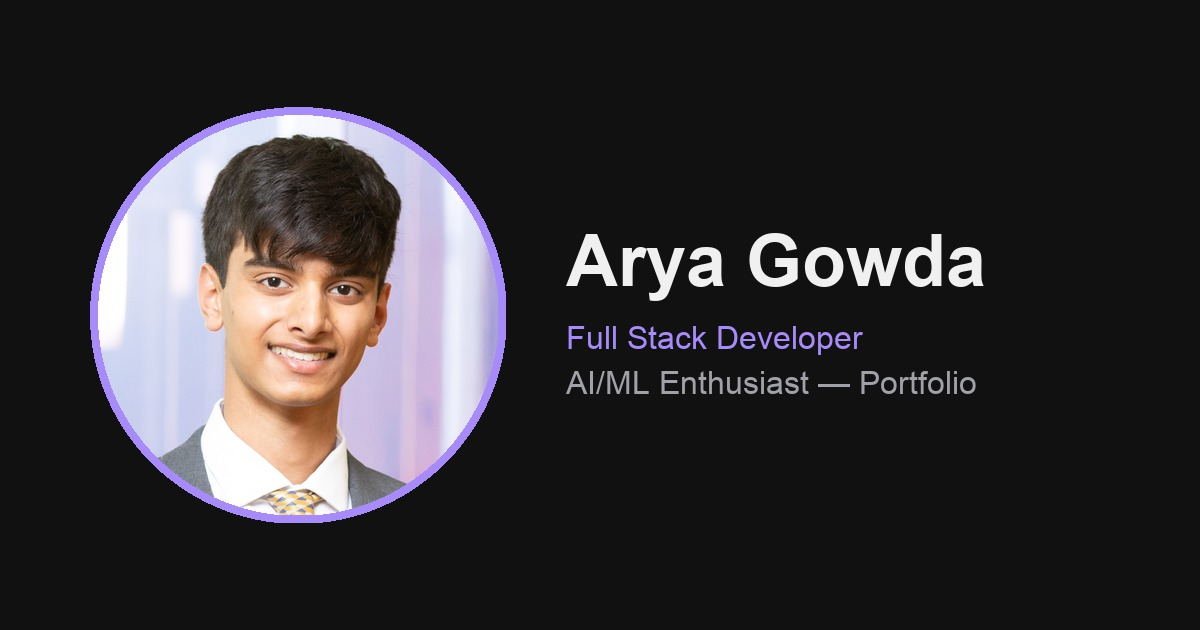
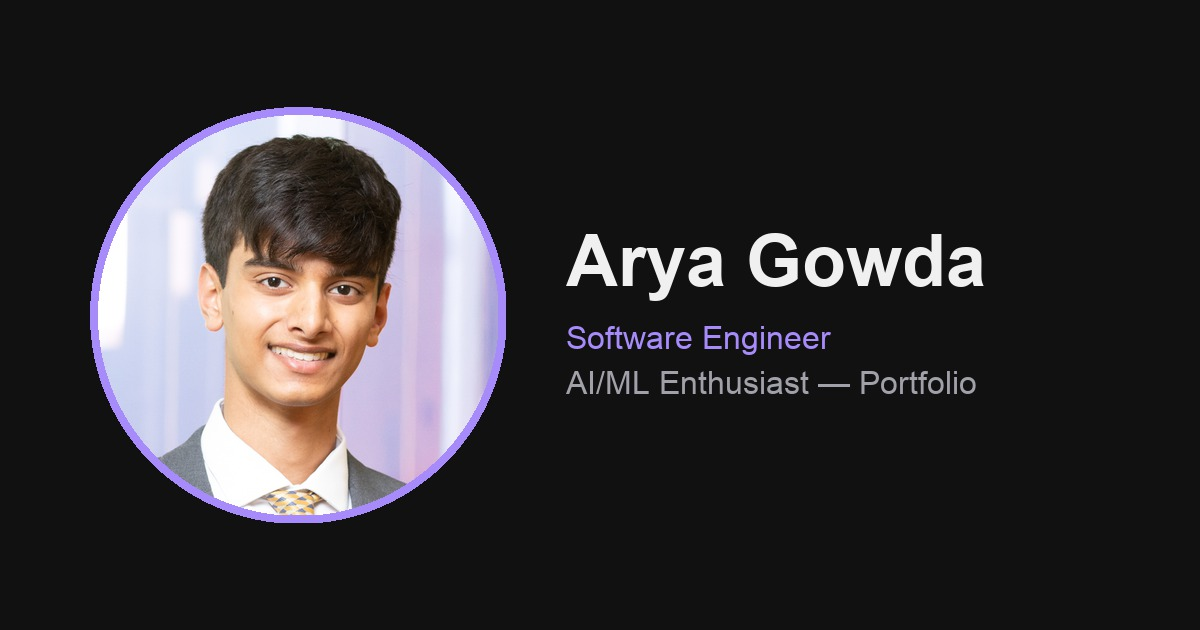
Update About Me and Experience for graduation + new SWE role at Ally
- About Me now reflects graduating from University of Michigan and
  working as a Software Engineer at Ally instead of being a student
- Add Ally Software Engineer role (Jul 2026-Present) to experience timeline
- Update Sabana entry with final dates (Jun-Aug 2025), full company
  name "Sabana (Techstars '24)", and accomplishment bullets
- Update job title consistently in SEO meta tags, JSON-LD, and the
  og-image social preview banner

Changed region(s): [[0.4625, 0.5127, 0.7092, 0.573]]

diff --git a/index.html b/index.html
@@ -16,12 +16,12 @@
         if (theme === 'dark') document.documentElement.classList.add('dark');
       })();
     </script>
-    <meta name="description" content="Arya Gowda's portfolio — full stack developer and AI/ML enthusiast. Explore projects, experience, and photography." />
+    <meta name="description" content="Arya Gowda's portfolio — Software Engineer and AI/ML enthusiast. Explore projects, experience, and photography." />
     <link rel="canonical" href="https://arya-gowda.vercel.app/" />
 
     <meta property="og:type" content="website" />
     <meta property="og:title" content="Arya Gowda | Portfolio" />
-    <meta property="og:description" content="Full stack developer and AI/ML enthusiast. Explore projects, experience, and photography." />
+    <meta property="og:description" content="Software Engineer and AI/ML enthusiast. Explore projects, experience, and photography." />
     <meta property="og:url" content="https://arya-gowda.vercel.app/" />
     <meta property="og:image" content="https://arya-gowda.vercel.app/og-image.jpg" />
     <meta property="og:image:width" content="1200" />
@@ -29,7 +29,7 @@
 
     <meta name="twitter:card" content="summary_large_image" />
     <meta name="twitter:title" content="Arya Gowda | Portfolio" />
-    <meta name="twitter:description" content="Full stack developer and AI/ML enthusiast. Explore projects, experience, and photography." />
+    <meta name="twitter:description" content="Software Engineer and AI/ML enthusiast. Explore projects, experience, and photography." />
     <meta name="twitter:image" content="https://arya-gowda.vercel.app/og-image.jpg" />
 
     <script type="application/ld+json">
@@ -39,7 +39,7 @@
         "name": "Arya Gowda",
         "url": "https://arya-gowda.vercel.app/",
         "image": "https://arya-gowda.vercel.app/og-image.jpg",
-        "jobTitle": "Full Stack Developer",
+        "jobTitle": "Software Engineer",
         "alumniOf": {
           "@type": "CollegeOrUniversity",
           "name": "University of Michigan"

diff --git a/src/pages/Home.jsx b/src/pages/Home.jsx
@@ -36,7 +36,7 @@ export default function Home() {
       <section aria-labelledby="about-heading" className="p-4 max-w-3xl mx-auto">
         <h2 id="about-heading" className="text-4xl text-center font-bold mb-4 mx-auto">👋 About Me</h2>
         <p className="text-zinc-700 dark:text-zinc-300 text-xl">
-          I'm a senior at the University of Michigan studying Computer Science and Business with a passion for AI/ML, product-building, and creative problem-solving. I love turning ideas into real, impactful projects—especially at the intersection of technology, design, and innovation. Driven by curiosity and a builder's mindset, I'm always exploring new tools, startups, and ways to make tech more human.
+          I'm a Software Engineer at Ally and a recent graduate of the University of Michigan, where I studied Computer Science and Business. I have a passion for AI/ML, product-building, and creative problem-solving, and I love turning ideas into real, impactful projects—especially at the intersection of technology, design, and innovation. Driven by curiosity and a builder's mindset, I'm always exploring new tools, startups, and ways to make tech more human.
         </p>
       </section>
       <section aria-labelledby="techstack-heading" className="p-4 max-w-5xl mx-auto mt-20 text-center">
